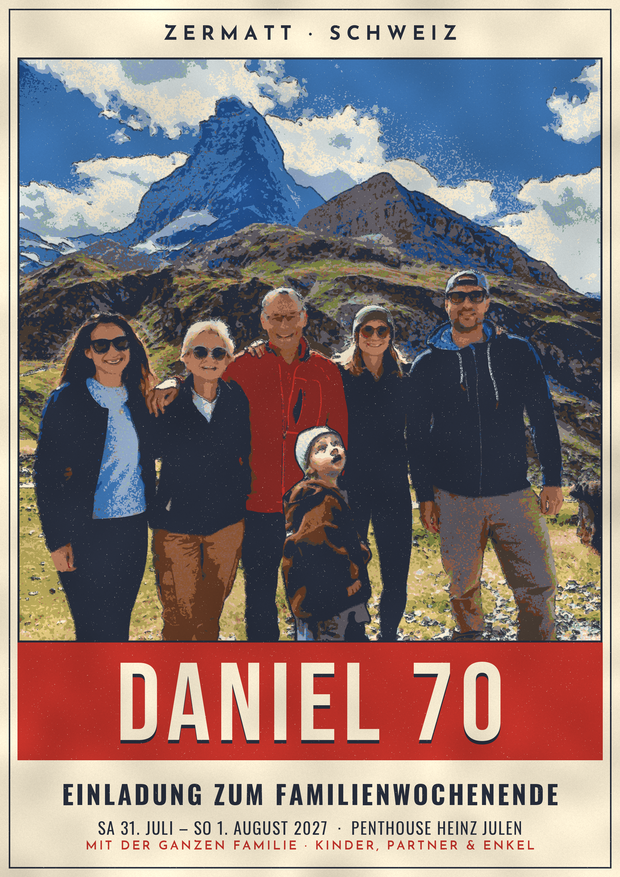
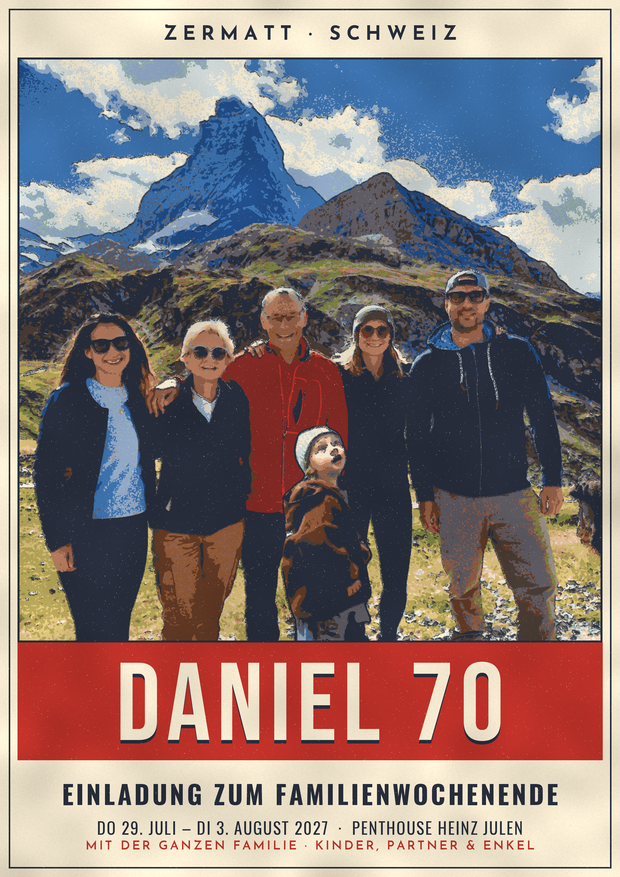
Datum: 29. Juli – 3. August 2027 in allen Varianten
Claude-Session: https://claude.ai/code/session_01EBdojvc5idDJTstk2DyY2w

Changed region(s): [[0.1532, 0.9236, 0.521, 0.9544], [0.5823, 0.9236, 0.8581, 0.9544]]

diff --git a/variante_a_foto.py b/variante_a_foto.py
@@ -20,7 +20,7 @@ from litho import (B, H, font, freistellen, lithografie, papier, passende_schrif
 OBERZEILE = "ZERMATT · SCHWEIZ"
 TITEL = "DANIEL 70"
 UNTERTITEL = "EINLADUNG ZUM FAMILIENWOCHENENDE"
-INFO = "SA 31. JULI – SO 1. AUGUST 2027  ·  PENTHOUSE HEINZ JULEN"
+INFO = "DO 29. JULI – DI 3. AUGUST 2027  ·  PENTHOUSE HEINZ JULEN"
 ZUSATZ = "MIT DER GANZEN FAMILIE · KINDER, PARTNER & ENKEL"
 
 # --- Zusätzliche Personen im Vordergrund ------------------------------------

diff --git a/variante_c_zeichnung.py b/variante_c_zeichnung.py
@@ -21,7 +21,7 @@ from litho import B, H, font, lithografie, papier, passende_schrift, text_mitte
 TITEL = "DANIEL 70"
 OBERTITEL = "ZERMATT · SCHWEIZ"
 UNTERTITEL = "EINLADUNG ZUM FAMILIENWOCHENENDE"
-INFO = "SA 31. JULI – SO 1. AUGUST 2027  ·  PENTHOUSE HEINZ JULEN"
+INFO = "DO 29. JULI – DI 3. AUGUST 2027  ·  PENTHOUSE HEINZ JULEN"
 ZUSATZ = "MIT DER GANZEN FAMILIE · KINDER, PARTNER & ENKEL"
 
 # --- Farben ------------------------------------------------------------------

diff --git a/variante_b_cardinaux.py b/variante_b_cardinaux.py
@@ -18,7 +18,7 @@ from litho import (B, H, lithografie, papier, passende_schrift, personen_maske,
 
 # --- Texte -------------------------------------------------------------------
 TITEL = "DANIEL 70"
-ZEILE_1 = "FAMILIENWOCHENENDE  31. JULI – 1. AUGUST 2027"
+ZEILE_1 = "FAMILIENWOCHENENDE  29. JULI – 3. AUGUST 2027"
 ZEILE_2 = "PENTHOUSE HEINZ JULEN  ·  ZERMATT"
 ZEILE_3 = "MIT DER GANZEN FAMILIE · KINDER, PARTNER & ENKEL"
 
